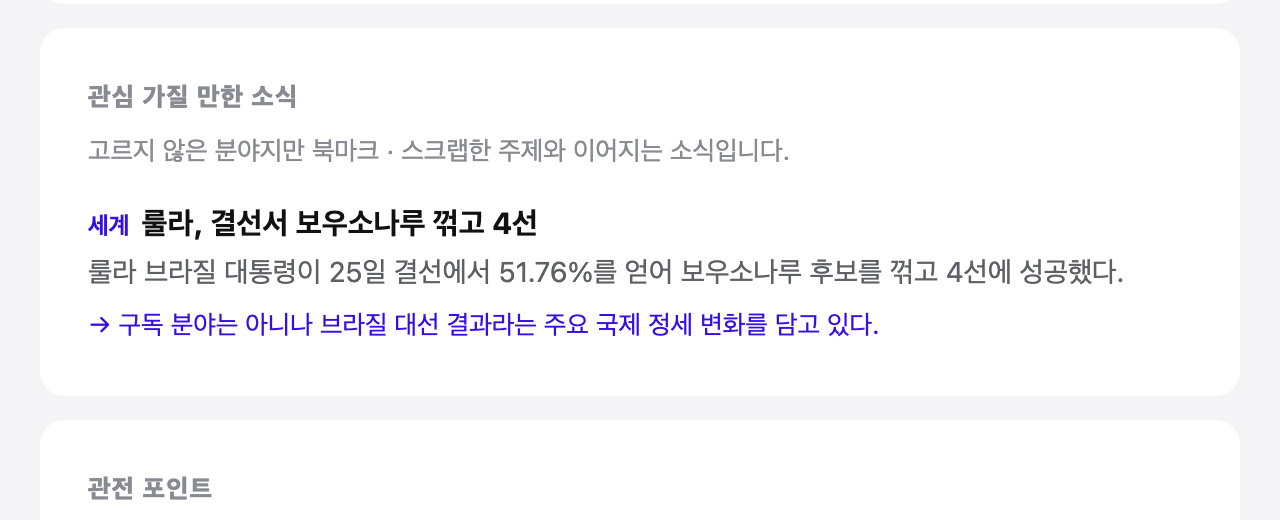
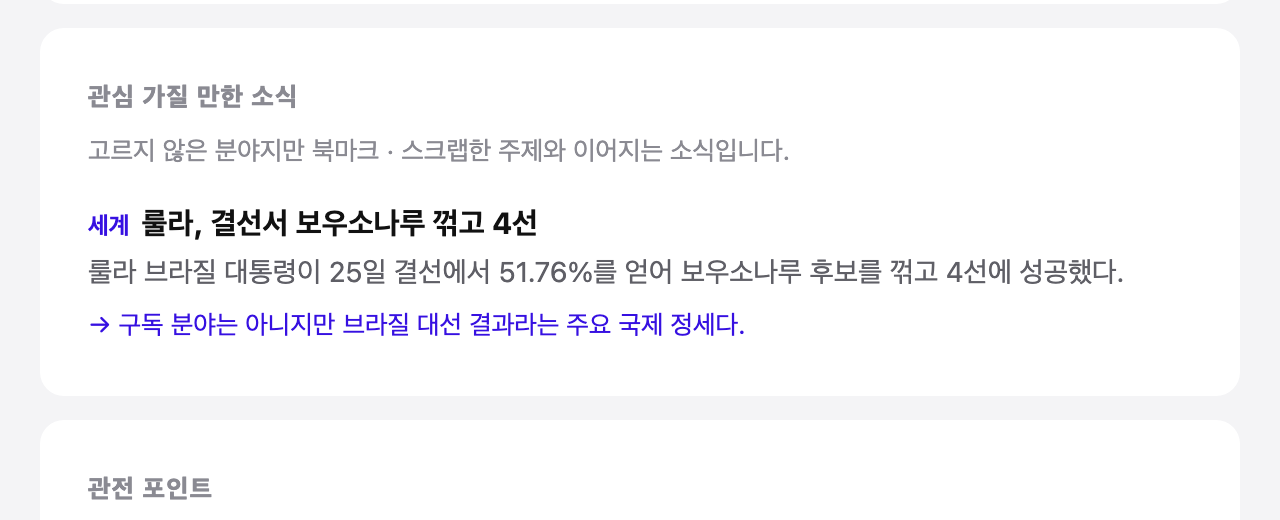
style: 맞춤 브리핑은 존댓말로 (독자에게 직접 건네는 글), 나에게 왜는 짧은 평서체 그대로

Changed region(s): [[0.2188, 0.5846, 0.6875, 0.6462]]

diff --git a/apps/api/src/edition/personalNote.ts b/apps/api/src/edition/personalNote.ts
@@ -48,9 +48,9 @@ export const notePrompt = (edition: ComposedEdition, profile: TasteProfile) => {
     '',
     '이 독자 한 사람을 위한 글을 씁니다.',
     `- subject: 메일 제목. 이 독자의 관심사와 가장 닿는 오늘 소식 하나를 담아 ${NOTE_LIMITS.subject}자 이내, 기사 제목 형식. 날짜 · "뉴픽"은 넣지 않습니다.`,
-    `- briefing: 맞춤 브리핑 2~3문장, ${NOTE_LIMITS.briefing}자 이내. 독자의 관심 주제와 오늘 소식이 어떻게 이어지는지, 무엇을 먼저 보면 좋은지. 관심 주제와 닿는 소식이 적으면 오늘 꼭 알아야 할 소식을 중심으로 씁니다.`,
+    `- briefing: 맞춤 브리핑 2~3문장, ${NOTE_LIMITS.briefing}자 이내. 독자에게 직접 건네는 글이라 존댓말(~습니다, ~보세요)로 씁니다. 독자의 관심 주제와 오늘 소식이 어떻게 이어지는지, 무엇을 먼저 보면 좋은지. 관심 주제와 닿는 소식이 적으면 오늘 꼭 알아야 할 소식을 중심으로 씁니다.`,
     `- whys: 이 소식들만 하나씩: ${whyTargets(edition).join(', ') || '(없음 — 빈 배열)'} (ref: 그 값 그대로, why: 독자의 관심 주제와 이 소식이 어떻게 이어지는지 ${NOTE_LIMITS.why}자 이내). 한 줄 요약을 되풀이하지 않습니다.`,
-    '- 간결한 평서체(~다). "~님", 감탄, 칭찬, 이모지는 쓰지 않습니다.',
+    '- briefing은 존댓말, whys는 간결한 평서체(~다). "~님", 감탄, 칭찬, 이모지는 쓰지 않습니다.',
     '- 소식에 있는 사실만 씁니다. 숫자 · 이름은 그대로 쓰고 새 사실을 지어내지 않습니다.',
     ...GENDER_RULES,
   ].join('\n');

diff --git a/apps/api/src/edition/personal.spec.ts b/apps/api/src/edition/personal.spec.ts
@@ -166,6 +166,7 @@ describe('사람마다 쓰는 글 (personalNote)', () => {
     expect(prompt).toContain('반도체, AI');
     expect(prompt).toContain('[30-1] (세계, 구독하지 않은 분야)');
     expect(prompt).toContain('새 사실을 지어내지 않습니다');
+    expect(prompt).toContain('존댓말(~습니다, ~보세요)');
     expect(prompt).toContain('여성을 깎아내리거나');
   });
 
